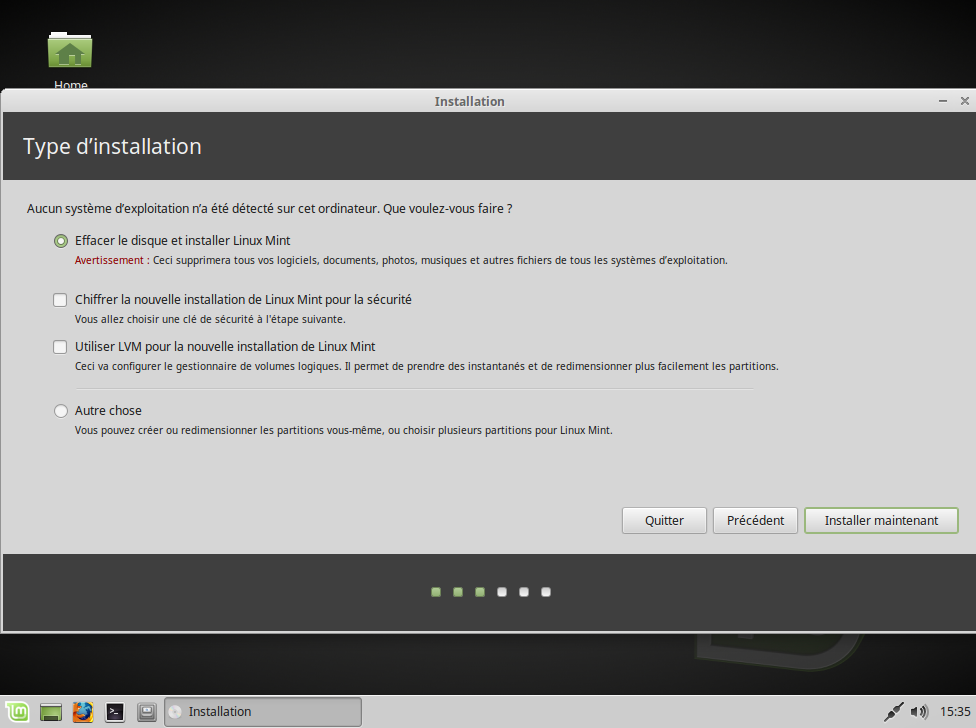
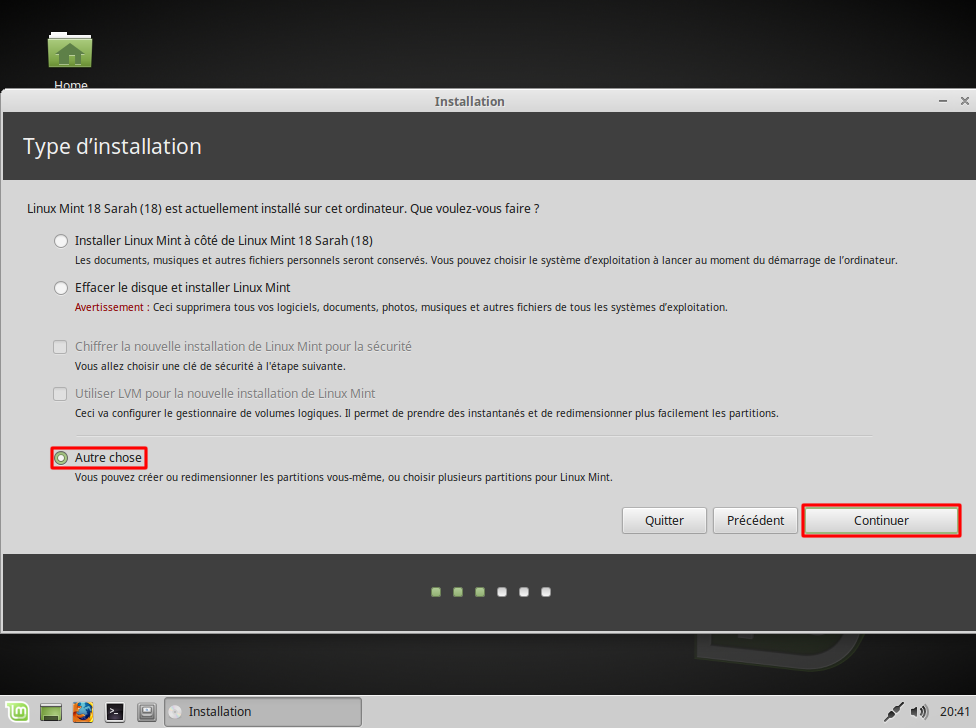
Modification/ajout d'image dans le diaporama d'installation.

diff --git a/cours-linux/installation-linux/installation-linux-mint-xfce-18.rst b/cours-linux/installation-linux/installation-linux-mint-xfce-18.rst
@@ -35,6 +35,29 @@ Lancement de l'installation
 
    Comment installer les fichiers du système sur votre ordinateur.
 
+.. warning:: Dans cette partie, il faut faire le choix **Autre chose**.
+
+Dans l'écran suivant :
+
+- Créer une partition / sur le disque **/dev/sdc** et lui affecter la totalité de la volumétrie ;
+- Changer la valeur du champ ***Périphérique où sera installé le programme de démarrage*** et passer sur le disque **/dev/sdc**.
+
+.. figure:: installation-linux-mint-xfce-18/03-z-creation-partition-principale.png
+   :width: 500
+
+   Création partition /
+
+Cliquer sur le bouton **OK** puis sur le bouton **Installer maintenant**.
+
+Un nouvel écran apparaît vous indiquant les modifications qui vont être réalisées.
+
+.. note:: Jusqu'à maintenant l'ordinateur n'a subit aucune modification.
+
+.. figure:: installation-linux-mint-xfce-18/03-zz-confirmation-creation-partitions.png
+   :width: 500
+
+   Confirmation de la modification des partitions du disque.
+
 .. figure:: installation-linux-mint-xfce-18/04-fuseau-horaire.png
    :width: 500
 
